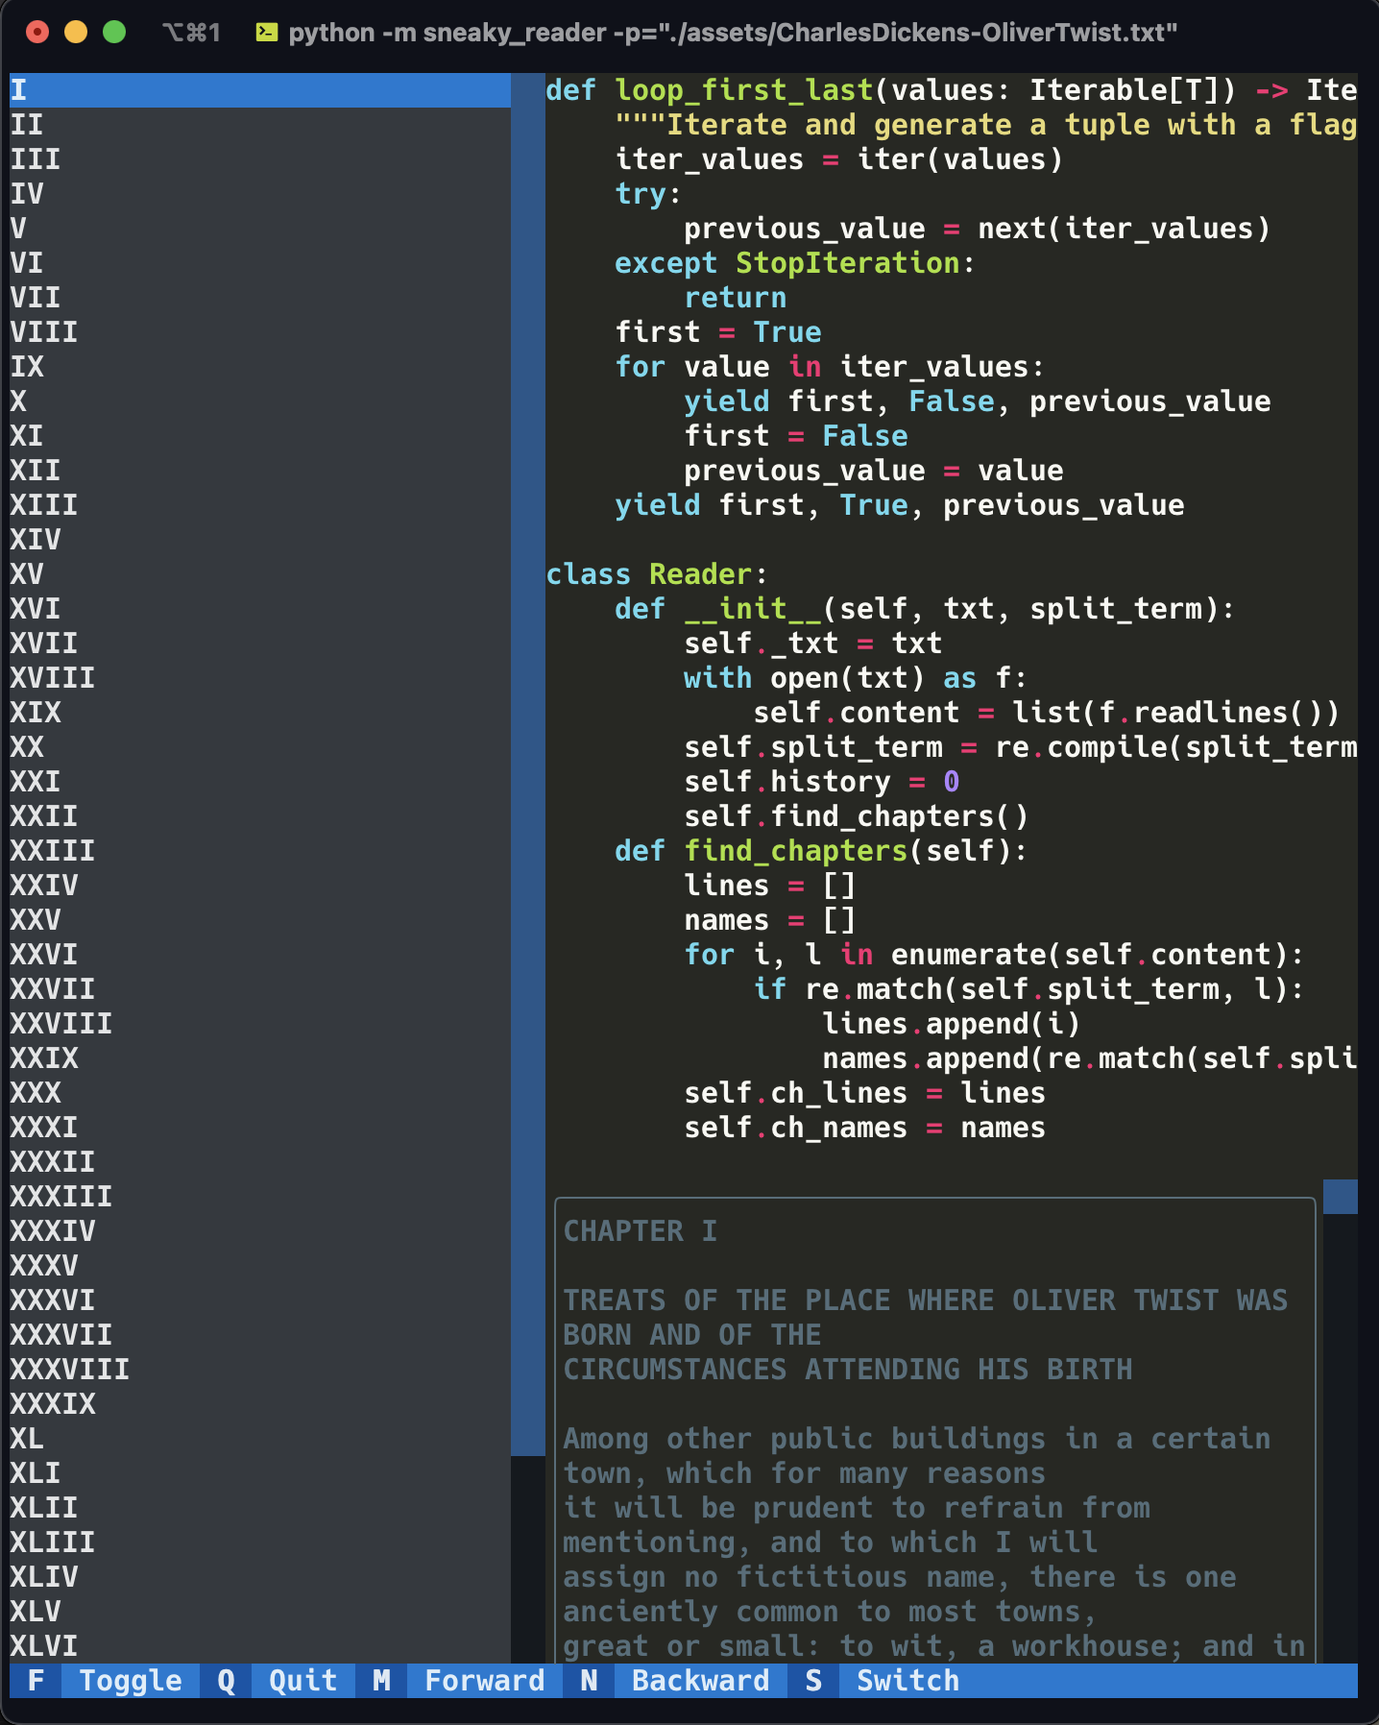
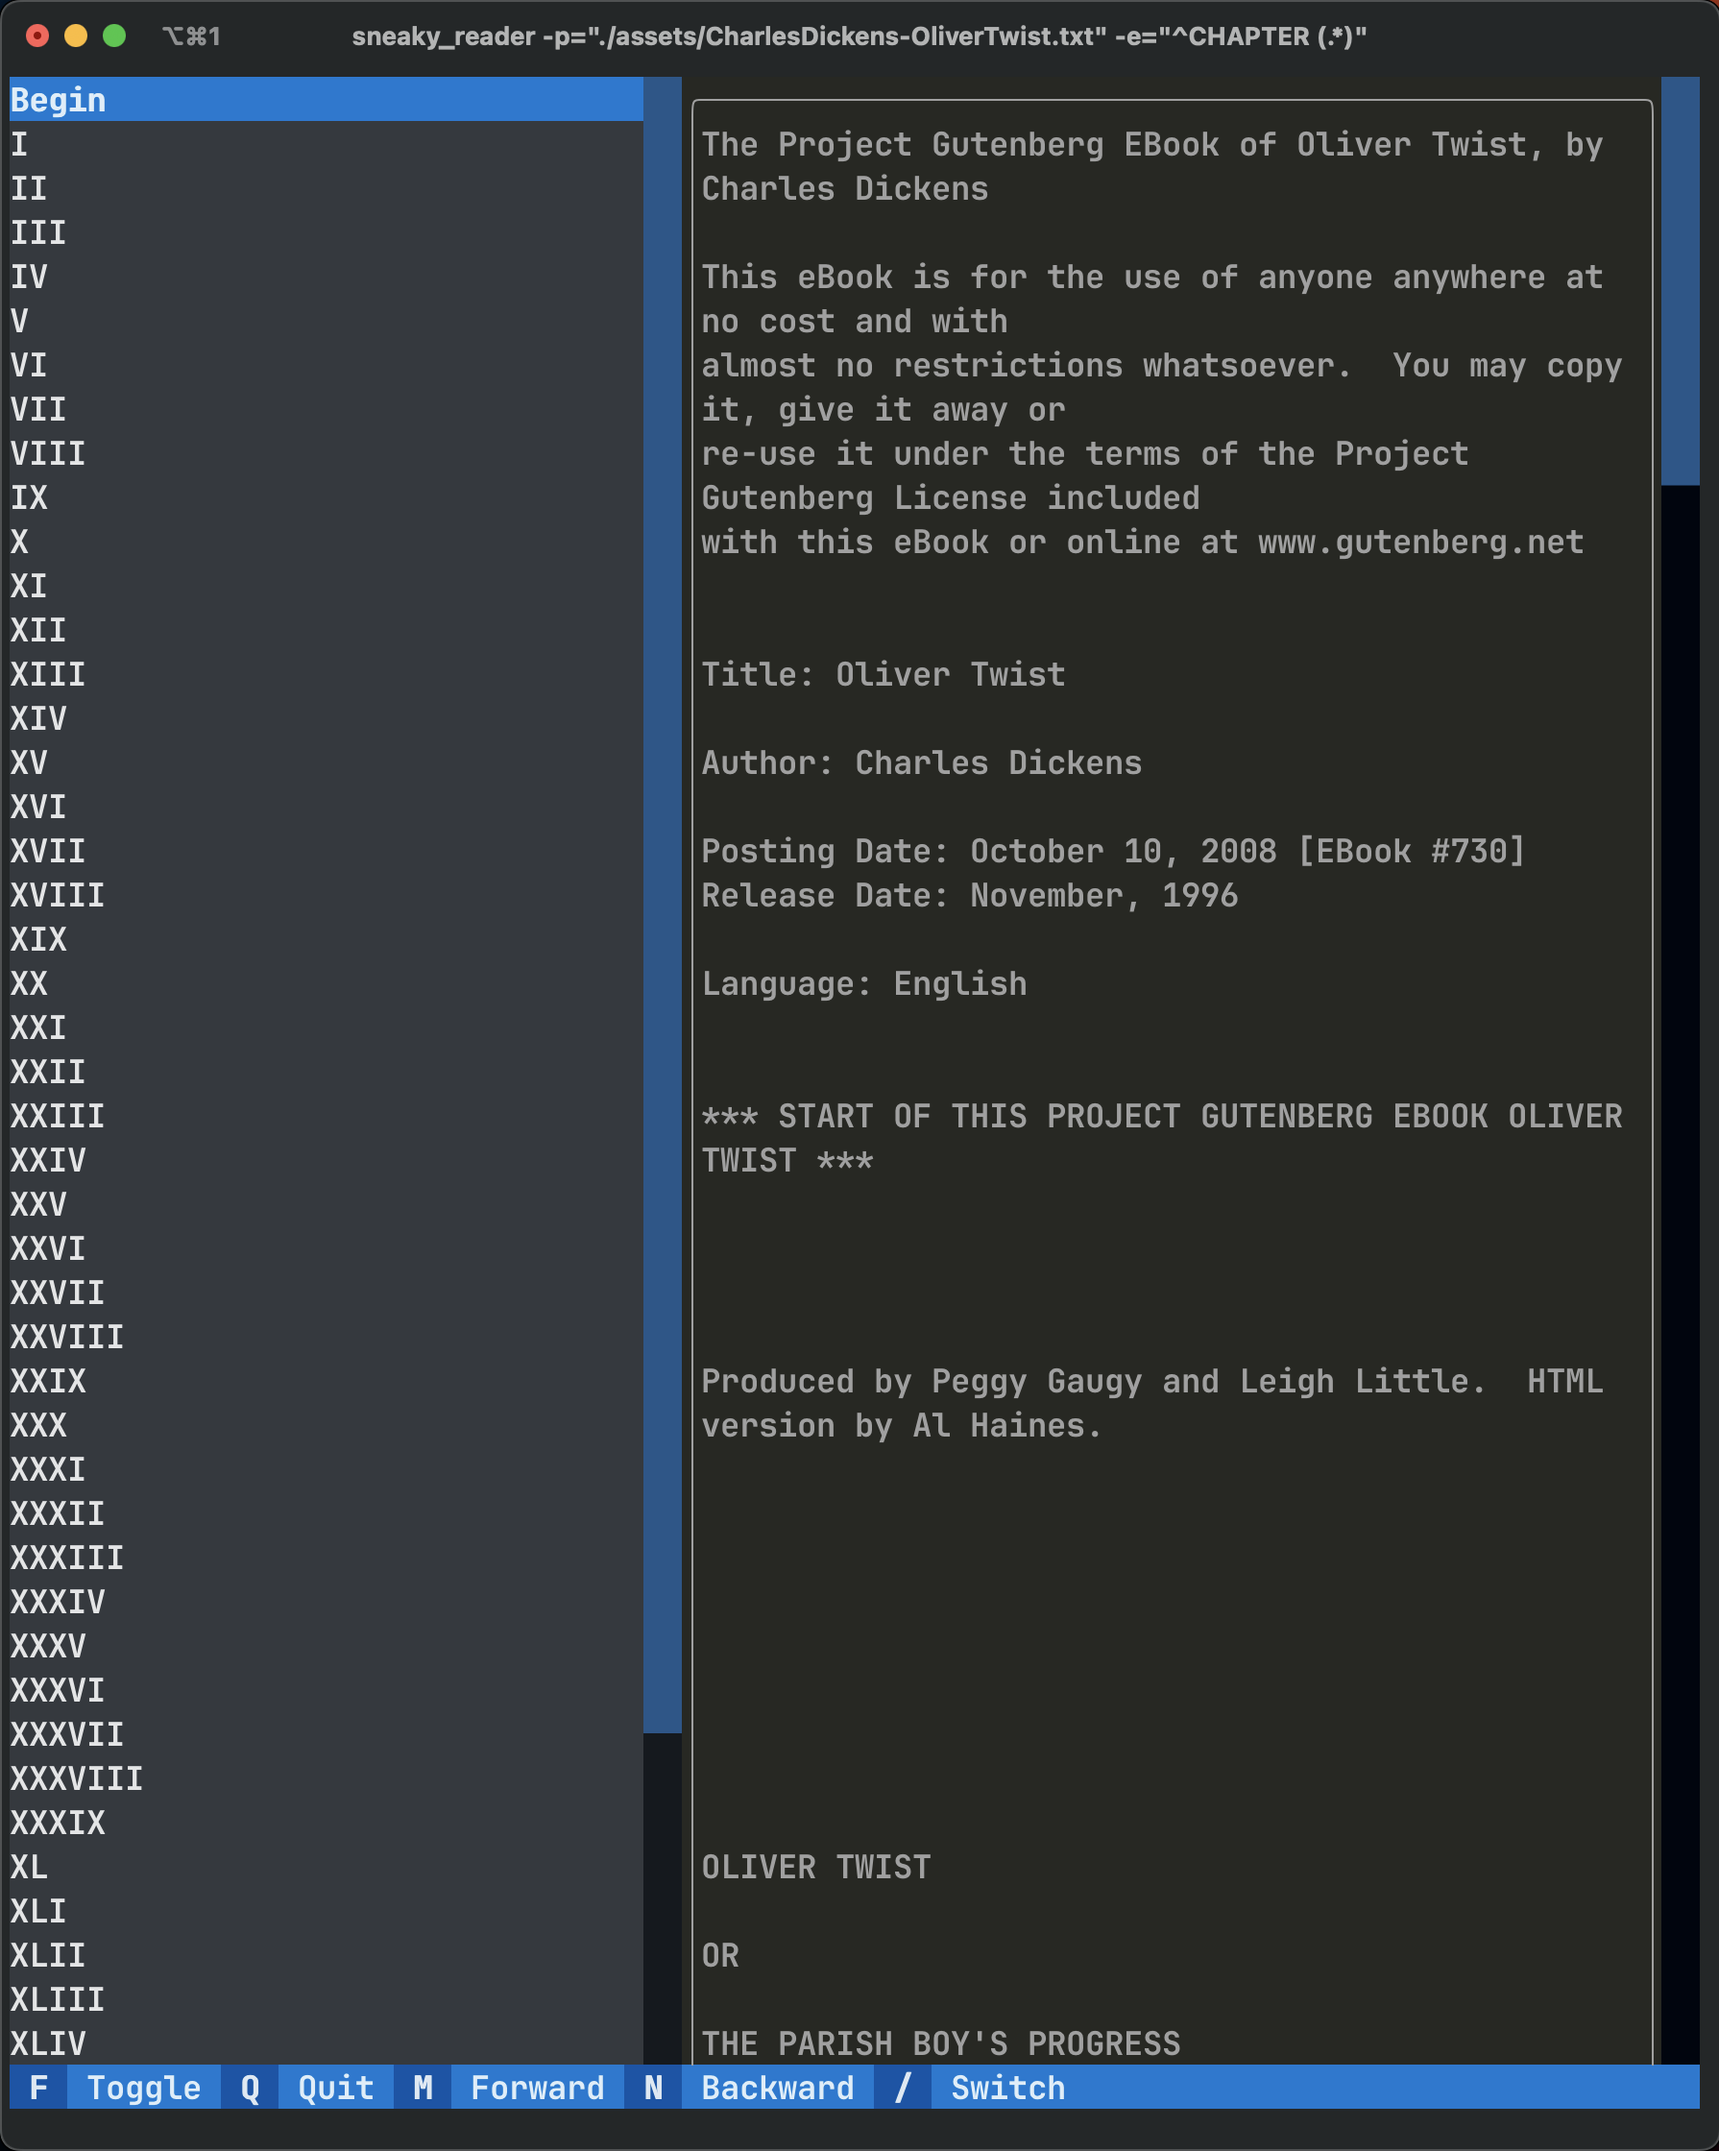
feat: change cache path

Changed region(s): [[0.0, 0.0, 1.0, 1.0], [0.8273, 0.8107, 0.9192, 0.8419], [0.8273, 0.7483, 0.9192, 0.7795]]

diff --git a/sneaky_reader/reader.py b/sneaky_reader/reader.py
@@ -14,38 +14,6 @@ from textual.driver import Driver
 from textual.reactive import var
 from textual.widgets import DirectoryTree, Footer, Header, Static, ListItem, Label, TextLog, LoadingIndicator, OptionList
 
-FAKE_CODE = '''\
-def loop_first_last(values: Iterable[T]) -> Iterable[tuple[bool, bool, T]]:
-    """Iterate and generate a tuple with a flag for first and last value."""
-    iter_values = iter(values)
-    try:
-        previous_value = next(iter_values)
-    except StopIteration:
-        return
-    first = True
-    for value in iter_values:
-        yield first, False, previous_value
-        first = False
-        previous_value = value
-    yield first, True, previous_value
-
-class Reader:
-    def __init__(self, txt, split_term):
-        self._txt = txt
-        with open(txt) as f:
-            self.content = list(f.readlines())
-        self.split_term = re.compile(split_term)
-        self.history = 0
-        self.find_chapters()
-    def find_chapters(self):
-        lines = []
-        names = []
-        for i, l in enumerate(self.content):
-            if re.match(self.split_term, l):
-                lines.append(i)
-'''
-
-
 class Reader:
     def __init__(self, txt, split_term, history_cache=0):
         self._txt = txt
@@ -117,7 +85,7 @@ class TxtBrowser(App):
 
     show_tree = var(True)
     current_index = var(0)
-    boss_mode = var(True)
+    boss_mode = var(False)
 
     def __init__(self, *args, **kwargs):
         reader = kwargs.pop("reader", None)
@@ -125,6 +93,10 @@ class TxtBrowser(App):
             raise ValueError("Must input your reader")
         self.reader = reader
         self.save_path = kwargs.pop("save_path", "./default.pkl")
+        fake_file = kwargs.pop("fake_file", None)
+        with open(fake_file) as f:
+            fake_code = "".join(f.readlines())
+        self.fake_code = Syntax(fake_code, "python")
         super().__init__(*args, **kwargs)
 
     def watch_show_tree(self, show_tree: bool) -> None:
@@ -134,9 +106,14 @@ class TxtBrowser(App):
 
     def watch_boss_mode(self, boss_mode: bool) -> None:
         """Called when show_tree is modified."""
-        if not boss_mode:
+        if boss_mode:
             self.show_tree = False
-        self.query_one("#code-view", VerticalScroll).visible = boss_mode
+            self.query_one("#fake-code", Static).visible = True
+            self.query_one("#fake-code", Static).update(self.fake_code)
+        else:
+            self.query_one("#fake-code", Static).update("")
+            self.query_one("#fake-code", Static).visible = False
+        self.query_one("#code-view", VerticalScroll).visible = not boss_mode
 
     def watch_current_index(self, current_index):
         # self.query_one(ListView).index = current_index
@@ -146,7 +123,7 @@ class TxtBrowser(App):
         """Compose our UI."""
         with Container():
             yield OptionList(*self.reader.ch_names, id="tree-view")
-            yield Static(Syntax(FAKE_CODE, "python"), expand=True, id="fake-code")
+            yield Static(id="fake-code")
             with VerticalScroll(id="code-view"):
                 yield Static(id="code", expand=True)
                 # yield TextLog(highlight=True, markup=True, id="code")

diff --git a/sneaky_reader/main.py b/sneaky_reader/main.py
@@ -17,16 +17,20 @@ def commandline():
                         help="Pick the book from the cached list(use `-l` to look the list)")
     parser.add_argument('-r', '--reload', action="store_true",
                         help="Ignore cache")
+    parser.add_argument('-d', '--delete', default=-1, type=int,
+                        help="Delete a book cache")
+    parser.add_argument('-f', '--fake_file', default=__file__, type=str,
+                        help="Ignore cache")
     return parser.parse_args()
 
 
 def get_root_dir():
-    return os.path.dirname(os.path.dirname(__file__))
+    return os.path.expanduser("~")
 
 
 def get_cache_dir():
     root = get_root_dir()
-    cache_dir = os.path.join(root, "book_cache")
+    cache_dir = os.path.join(root, ".book_cache")
     if not os.path.exists(cache_dir):
         os.mkdir(cache_dir)
     return cache_dir
@@ -62,6 +66,13 @@ def main():
     if args.list:
         print_cache_name()
         exit()
+    if args.delete != -1:
+        book_paths = get_cache_books()
+        assert 0 <= args.delete <= len(
+            book_paths), f"Wrong index for book, expected in [0, {len(book_paths)}]"
+        cache_path = book_paths[args.delete]
+        os.remove(cache_path)
+        exit()
     if args.book != -1:
         book_paths = get_cache_books()
         assert 0 <= args.book <= len(
@@ -85,6 +96,7 @@ def main():
     else:
         if args.re == "":
             raise ValueError("Import a new book must set your `-e`")
-        abs_path = os.path.abspath(args.path)
+        abs_path = os.path.expanduser(args.path)
+        abs_path = os.path.abspath(abs_path)
         reader = Reader(abs_path, args.re)
-    TxtBrowser(reader=reader, save_path=cache_path).run()
+    TxtBrowser(reader=reader, save_path=cache_path, fake_file=args.fake_file).run()

diff --git a/sneaky_reader/__init__.py b/sneaky_reader/__init__.py
@@ -1,5 +1,5 @@
 from .main import main
 
 __author__ = "Jianbai Ye"
-__version__ = "0.1.1"
+__version__ = "0.1.2"
 __url__ = "https://github.com/gusye1234/sneaky-reader"

diff --git a/readme.md b/readme.md
@@ -7,11 +7,10 @@
 
 <div align="center">
   <div class="row" align="center">
-      <img src="./assets/en-1.png" width="32%" align="center"/>
-      <img src="./assets/en-2.png" width="32%" align="center"/>
-      <img src="./assets/en-3.png" width="32%" align="center"/>
+      <img src="./assets/en-1.png" width="40%" align="center"/>
+      👉 BOSS 👉
+      <img src="./assets/en-3.png" width="40%" align="center"/>
   </div>
-  <a align="center"> Find dickens in those images</a>
 </div>
 
 
@@ -34,13 +33,14 @@ Greate thanks to the wonderful projects: [`rich`](https://github.com/Textualize/
 
 * You can press `f` to show/hide the chapters pane
 * You can press `m`, `n` to forward/backward the current chapter
-* You can press `/` to enable BOSS mode! It will hide all the sneaky things and only leave a fake Python snippet.
+* You can press `/` to enable BOSS mode! It will hide all the sneaky things and only leave a fake Python snippet. *You can pass `-f <PYTHON FILE>` to use your own fake code!*
 
 ### Smart spliting
 
 Sneaky-reader supports you to use regluar expression (refer to the `re` module in python) to split your TXT into chapters. Using the command line option `-e` to pass your regluar expression. 
 
-Remember, always group your chapter name in first in your regular expression! *group the title with `()`*
+Remember, always group your chapter name in first in your regular expression!  *group the title with `(.*)`*
+
 ## Quick Start
 
 * Via `pip`: `pip install sneaky-reader`
